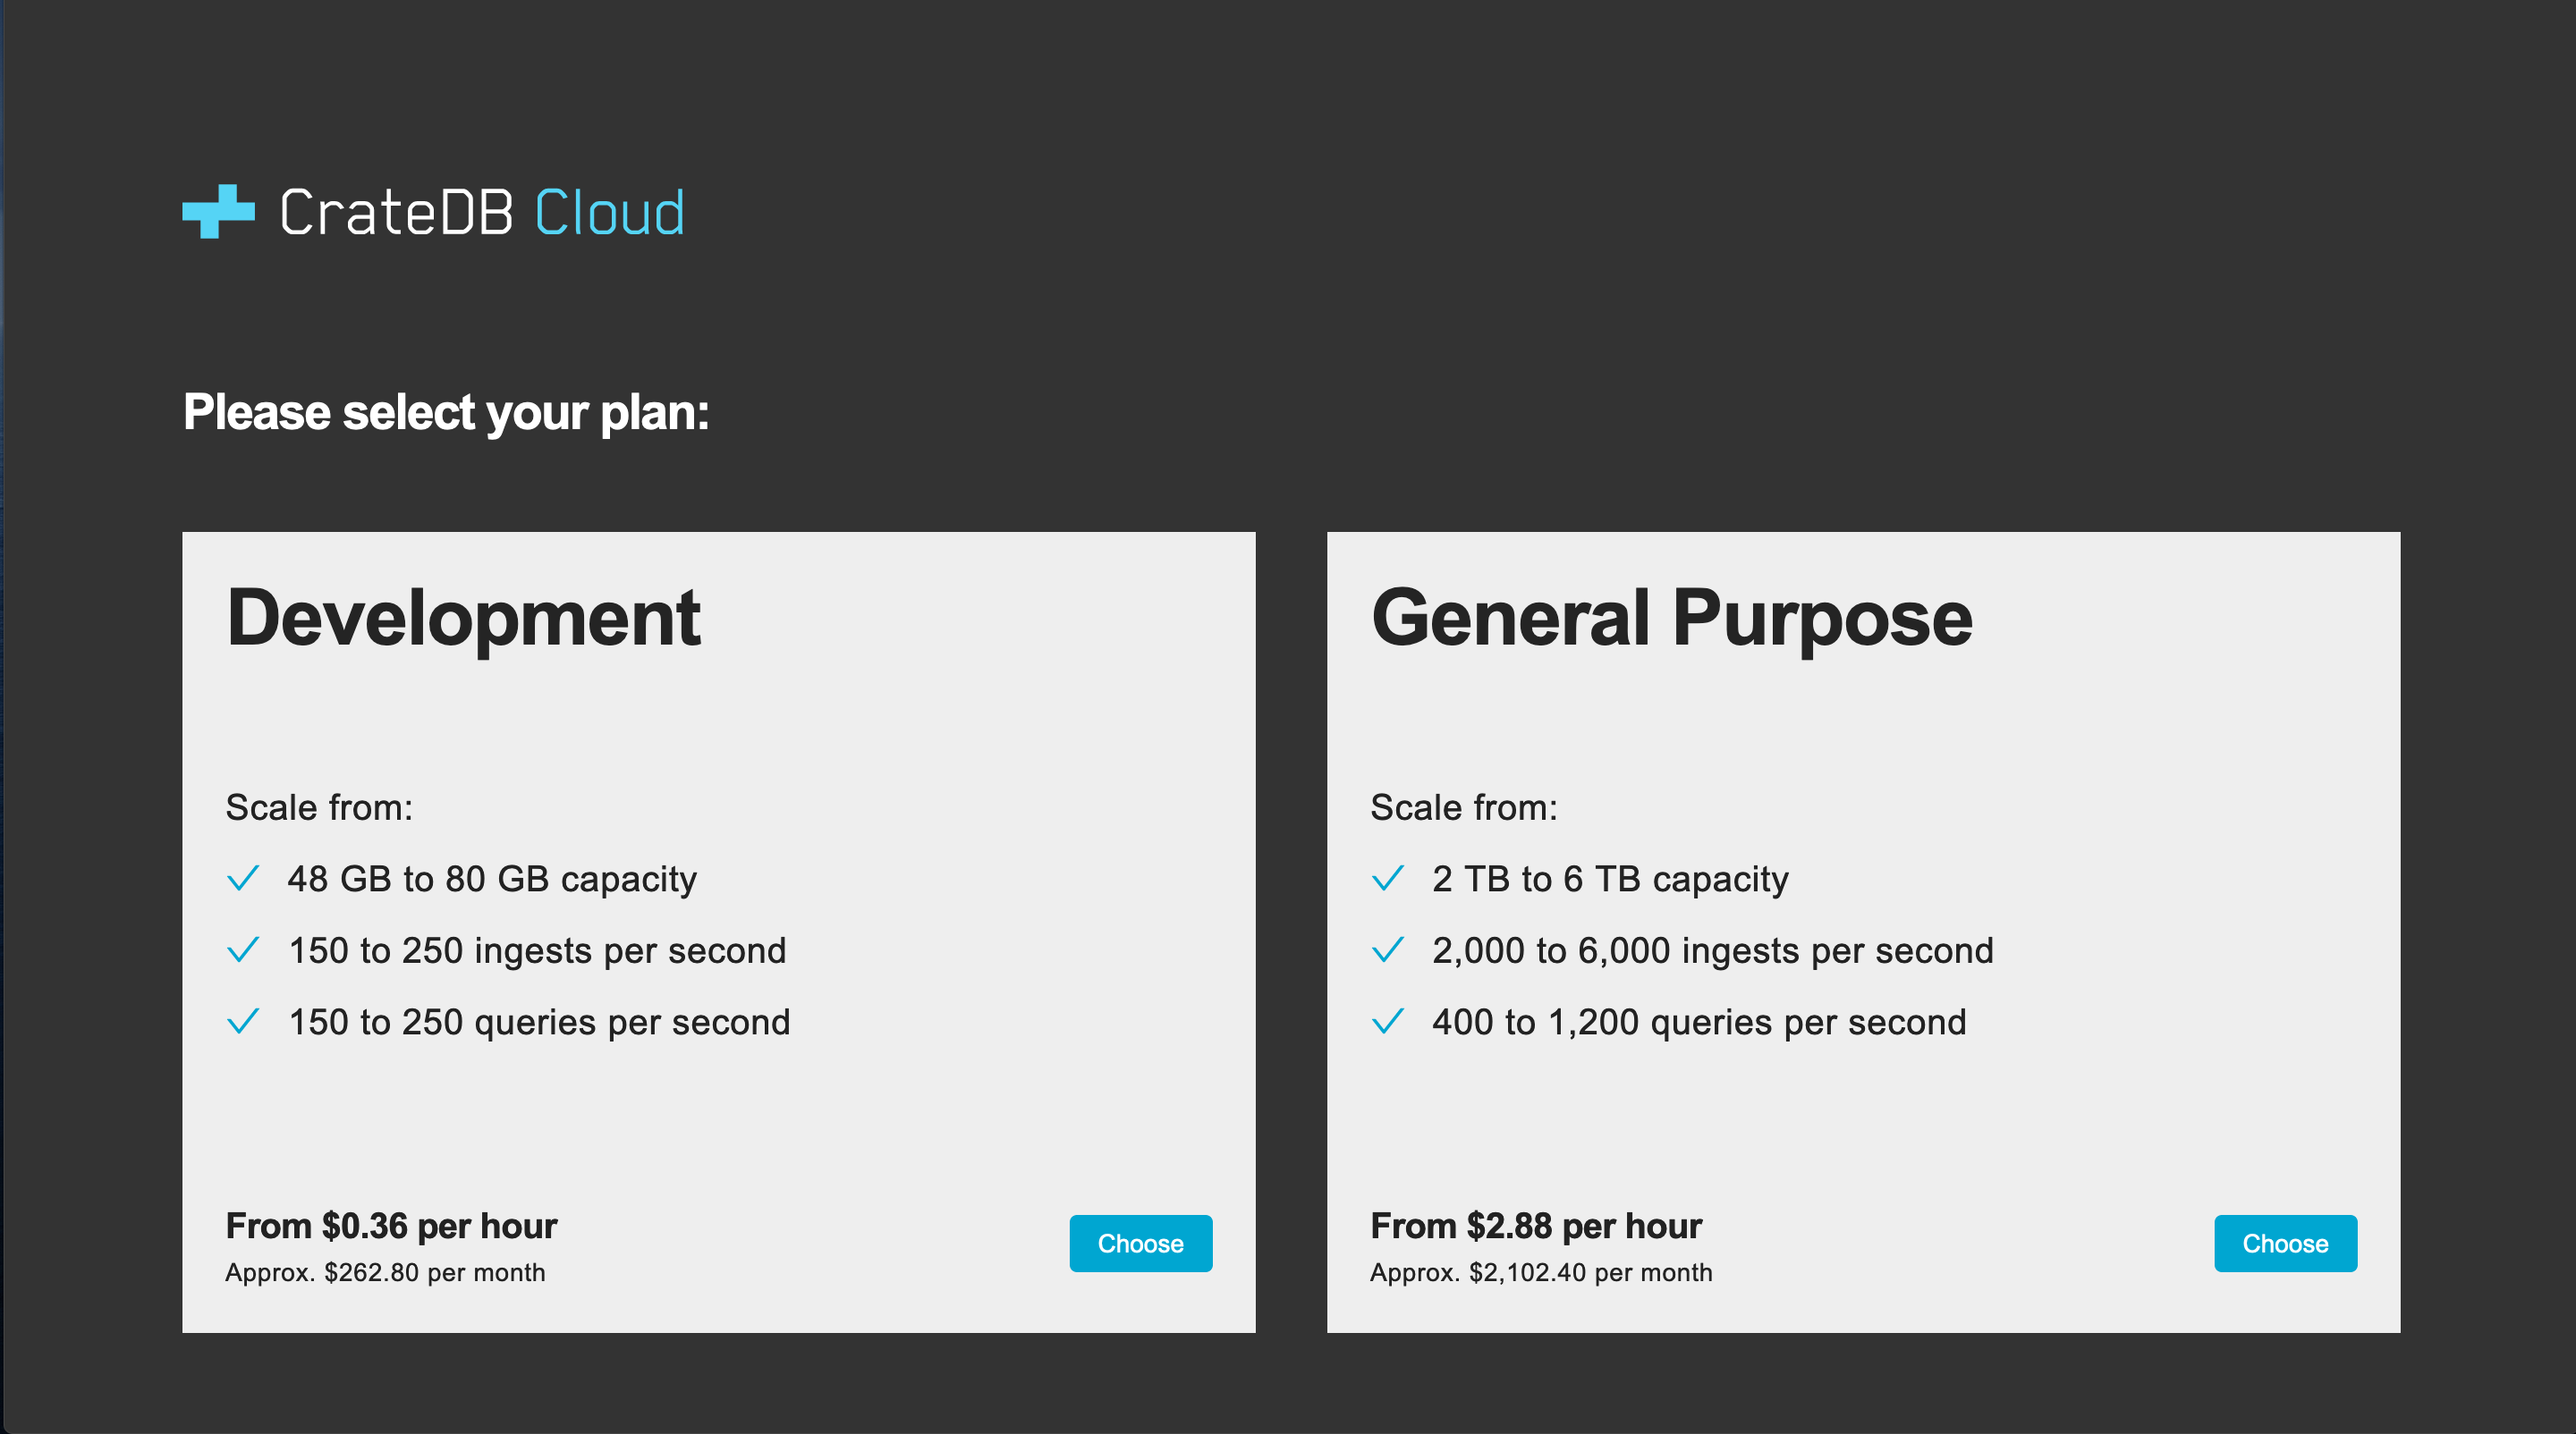
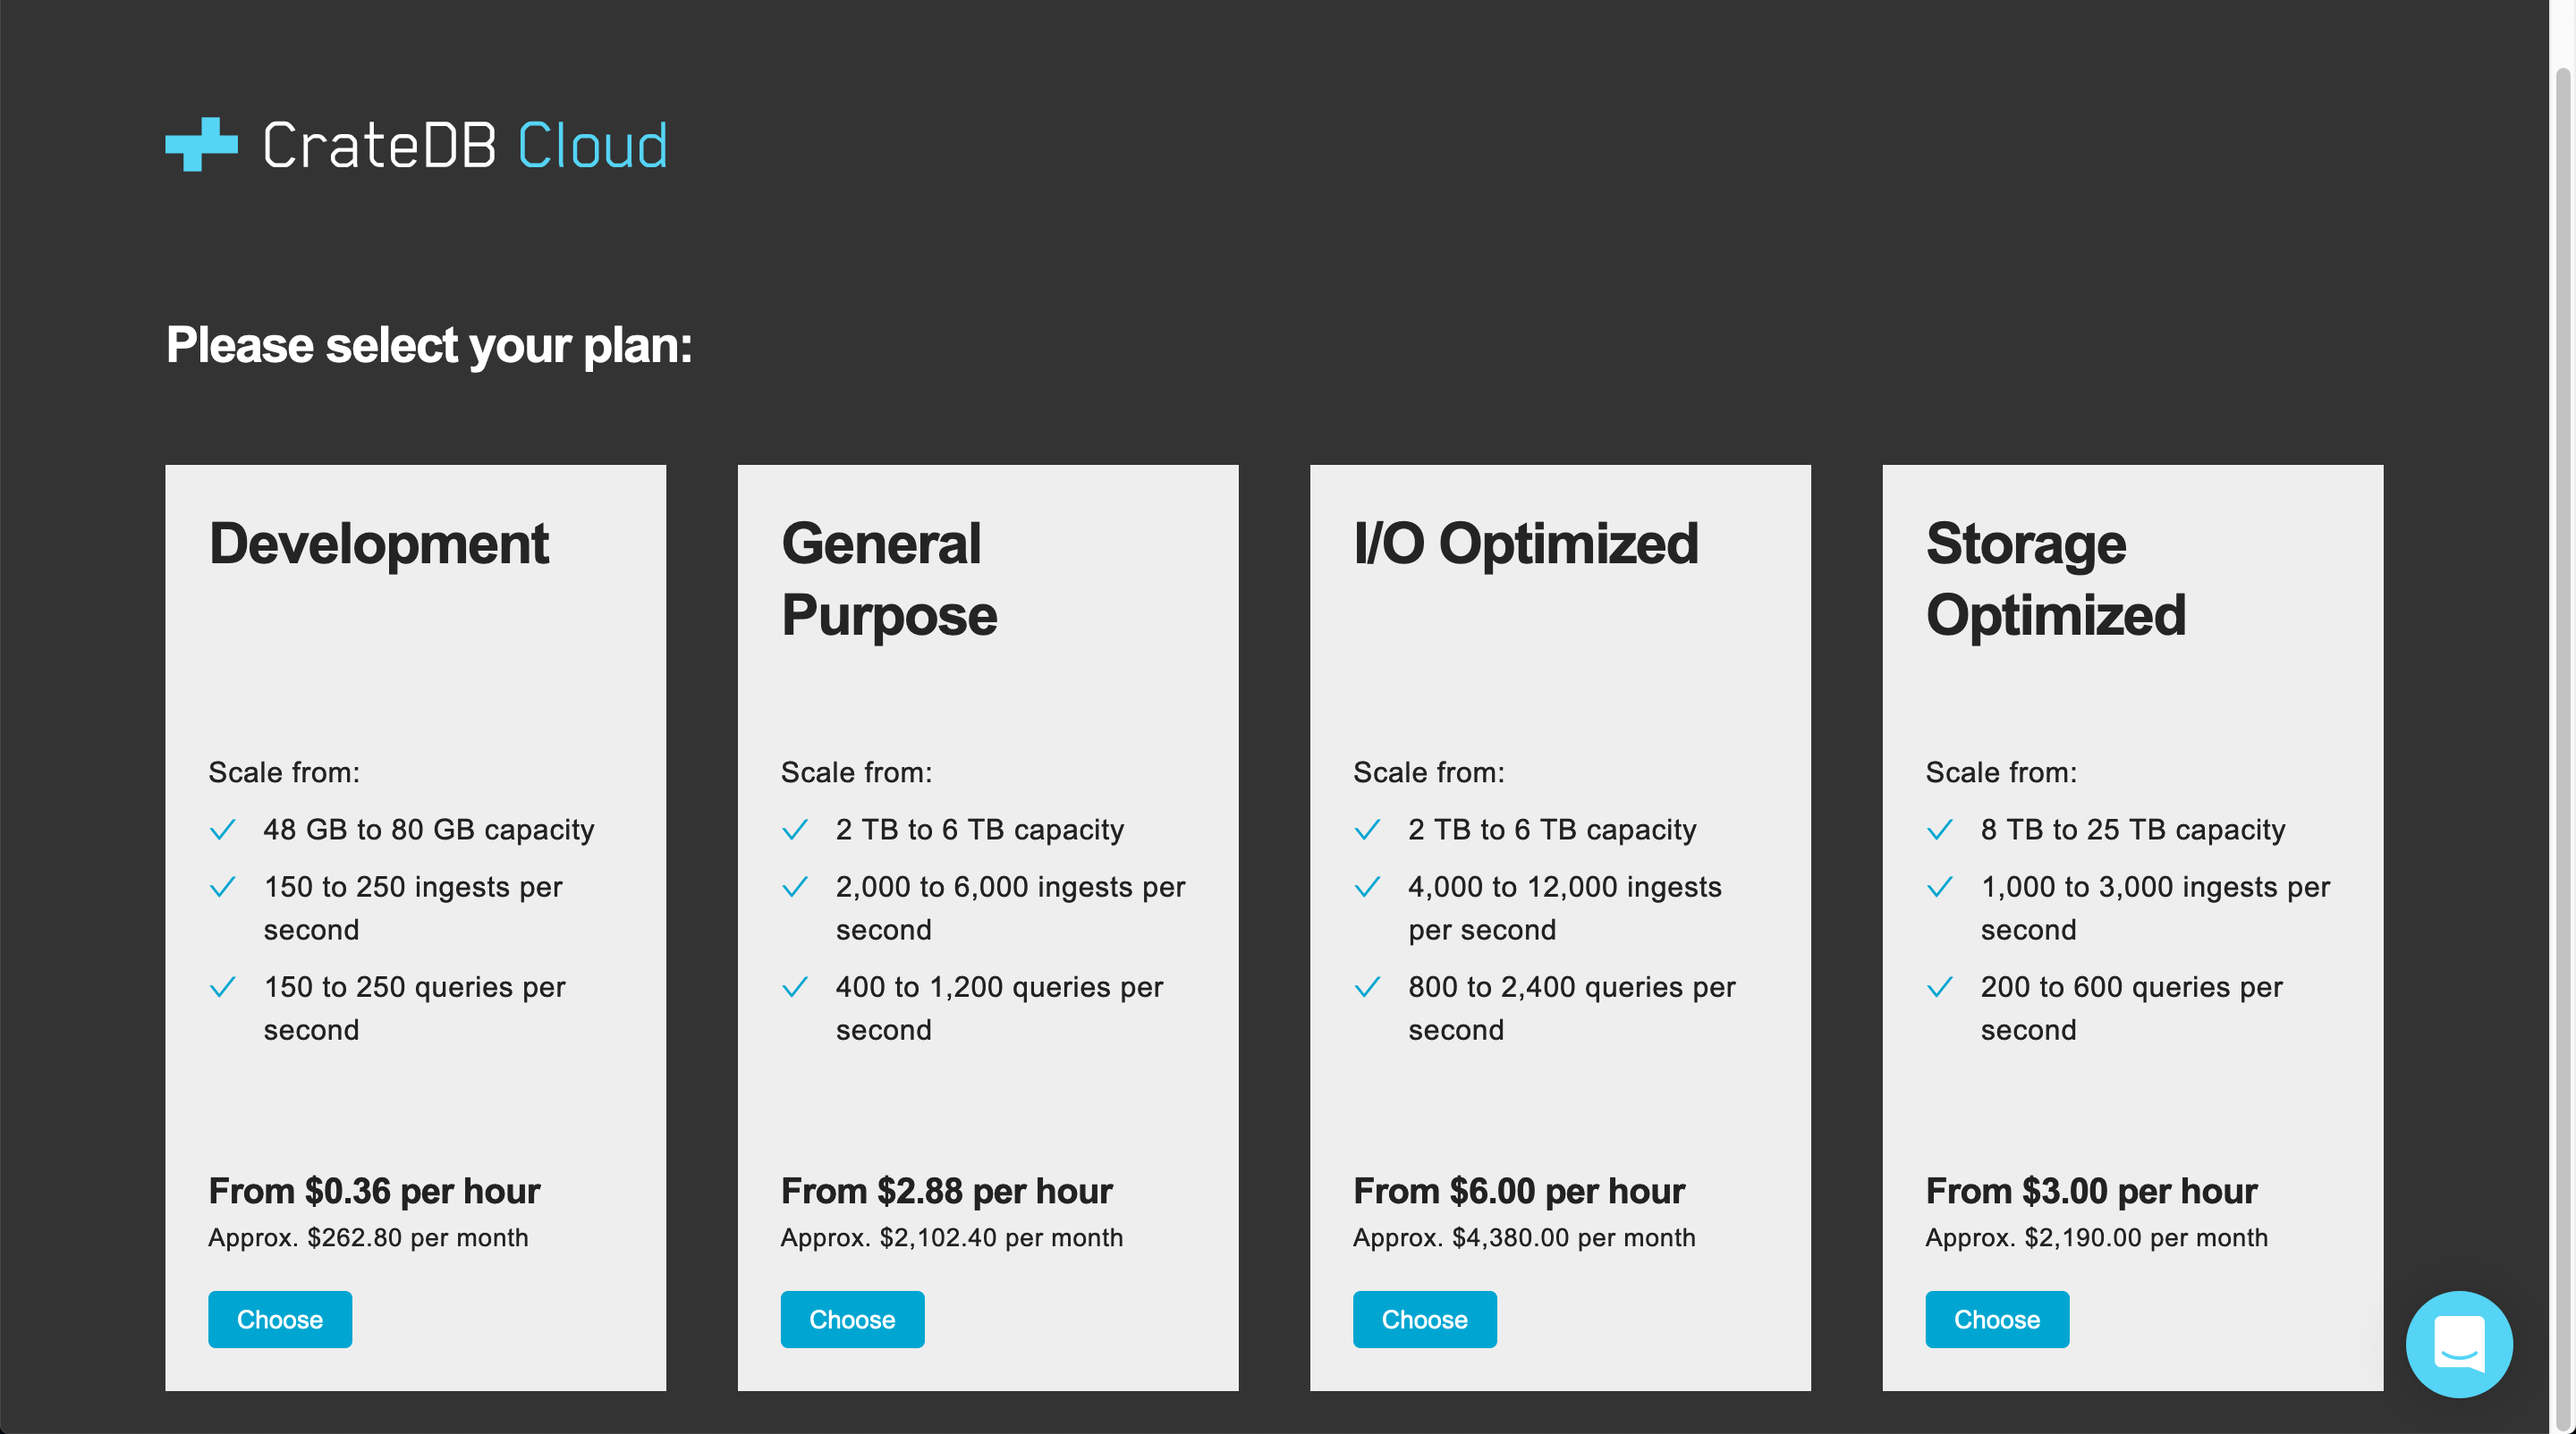
Refresh: Update AWS tutorial process

Changed region(s): [[0.0625, 0.0, 1.0, 1.0], [0.0625, 0.0935, 0.2812, 0.1559]]

diff --git a/docs/cluster-deployment/deploy-to-cluster-aws/configure-aws.rst b/docs/cluster-deployment/deploy-to-cluster-aws/configure-aws.rst
@@ -5,14 +5,32 @@ Configure and deploy your cluster
 =================================
 
 After having subscribed to the AWS Marketplace offer, you can now start to
-deploy your first cluster by going through the CrateDB Cloud Console
-configuration wizard. Here you will find a step-by-step description of the
-process.
+use your first cluster. This involves two steps: the deployment of the cluster
+in the CrateDB Cloud Console, and the configuration of the cluster (including
+choosing the subscription plan) by going through the CrateDB Cloud Console
+wizard. Here you will find a step-by-step description of the process.
 
 .. rubric:: Table of contents
 
 .. contents::
    :local:
+
+
+.. _configure-aws-to-cluster-deploy:
+
+Deploy your cluster
+===================
+
+After having subscribed, you should arrive (possibly involving a subsequent
+login process) at the CrateDB Cloud Console. The Console will display the
+subscriptions tab of the Organization overview page, where you can see any and
+all subscriptions that your organization has.
+
+.. image:: ../../_assets/img/aws-subscription-overview.png
+
+Under the relevant subscription, click the *Deploy cluster* button. This will
+take you to the CrateDB Cloud configuration wizard, starting with the choice
+of subscription plan.
 
 
 .. _configure-aws-to-cluster-plans:
@@ -21,12 +39,14 @@ Choose a plan
 =============
 
 You choose a subscription plan at this stage of configuration. CrateDB Cloud
-currently offers two different subscription plans: *Development* and *General
-Purpose*. The Development plan is intended for trying out the service. The
-General Purpose plan is designed to meet production-ready use cases. In the
-future, the number and nature of the subscription plans may change. To learn
-more about our subscription plans, including the seamless scaling options, see
-the `reference`_ on the subject.
+currently offers four different standard subscription plans: *Development*,
+intended for trying out the service, *General Purpose*, designed to meet
+production-ready use cases, *IO Optimized* for use cases where query speed is
+the main focus, and *Storage Optimized* for cases where large amounts of (hot)
+storage are essential. Finally, there is the `CrateDB Cloud Contract`_,
+offering an annual subscription to our cloud service by paying in advance. To
+learn more about our subscription plans, see the `reference on subscription
+plans`_.
 
 .. image:: ../../_assets/img/aws-config-plans.png
 
@@ -83,7 +103,8 @@ cluster changes its price.
 
 Do not worry, however: clusters can be scaled up or down as needed, for example
 if your use case changes, at any point later on. To understand more about
-subscription plans and scale units, refer to our `reference`_ on the subject.
+subscription plans and scale units, refer to our `reference on subscription
+plans`_.
 
 When you have filled out the required lines and chosen a scale unit, click
 *Next* to proceed.
@@ -119,9 +140,11 @@ To test if your cluster is available, go to *Cluster Overview* in the Console
 and click on the cluster URL. Once the cluster is up and running you should be
 presented with a login form. Enter the database user and password defined in
 step 2 of the wizard. After authentication the CrateDB Admin UI opens and you
-can start using your cluster. For more information, visit `our Help page`_.
+can start using your cluster. For more information on accessing the Admin UI,
+visit `our Admin UI help page`_.
 
 
 .. _CrateDB Cloud  Console: https://crate.io/docs/cloud/reference/en/latest/overview.html
-.. _our Help page: https://help.crate.io/en/articles/1771425-accessing-cratedb-s-admin-ui
-.. _reference: https://crate.io/docs/cloud/reference/en/latest/subscription-plans.html
+.. _CrateDB Cloud Contract: https://aws.amazon.com/marketplace/pp/B08KHK34RK
+.. _our Admin UI help page: https://help.crate.io/en/articles/1771425-accessing-cratedb-s-admin-ui
+.. _reference on subscription plans: https://crate.io/docs/cloud/reference/en/latest/subscription-plans.html

diff --git a/docs/cluster-deployment/deploy-to-cluster-aws/signup-aws.rst b/docs/cluster-deployment/deploy-to-cluster-aws/signup-aws.rst
@@ -7,8 +7,8 @@ Subscribe to CrateDB Cloud via the AWS Marketplace
 Another way to deploy a cluster on CrateDB Cloud is to sign up via AWS
 Marketplace. You will need an AWS Marketplace account to proceed, which for the
 purposes of this tutorial we will assume you have. (If not, you can sign up
-easily `here`_.) By using CrateDB Cloud's service on AWS Marketplace, your
-hourly usage is billed directly by Amazon, not by Crate.io.
+easily on the `Marketplace page`_.) By using CrateDB Cloud's service on AWS
+Marketplace, your hourly usage is billed directly by Amazon, not by Crate.io.
 
 .. rubric:: Table of contents
 
@@ -23,7 +23,7 @@ Using the CrateDB Cloud offer on AWS Marketplace
 
 To subscribe to CrateDB Cloud's offering on AWS Marketplace, find the CrateDB
 Cloud offer page. You can either search "CrateDB Cloud" in the search bar at
-the top of the AWS Marketplace front page, or follow `this link`_ to the offer.
+the top of the AWS Marketplace front page, or go directly to `the AWS offer`_.
 The top of the offer page should look as follows:
 
 .. image:: ../../_assets/img/aws-offer.png
@@ -49,17 +49,38 @@ configuration on the CrateDB Cloud end.
 Click on the *Set Up Your Account* button to proceed.
 
 
+.. _signup-aws-contract:
+
+Using the CrateDB Cloud Contract on AWS Marketplace
+===================================================
+
+Alternatively, you can avail yourself of the possibility of an annual contract
+for our cloud service through the CrateDB Cloud Contract. On AWS Marketplace,
+the contract is a separate product for subscription purposes. You can access it
+by going to the `CrateDB Cloud Contract landing page`_.
+
+.. image:: ../../_assets/img/aws-cloud-contract.png
+
+Simply subscribe to it as you would to the CrateDB Cloud subscription. A screen
+will appear where you can confirm your subscription plan and review the prices
+once more. After confirmation, our Sales team will get in touch with you to
+configure your plan according to your specific needs. If you plan to purchase
+large volumes, please contact `Sales`_ first to negotiate a private offer.
+
+
 .. _signup-aws-to-cluster-next:
 
 Next steps
 ==========
 
 Proceeding with the AWS Marketplace subscription will take you to the CrateDB
-Cloud Console wizard. The next steps are to choose a subscription plan, to
-configure the cluster, and to finish the CrateDB Cloud Console wizard, all of
-which is described in the :ref:`next part <configure-aws-to-cluster>` of this
-tutorial. This will allow deployment of your cluster.
+Cloud Console. The next steps are to deploy a cluster, select the subscription
+plan, and to finish the CrateDB Cloud Console wizard, all of which is described
+in the :ref:`next part <configure-aws-to-cluster>` of this tutorial. This will
+allow the full functioning of your cluster.
 
 
-.. _here: https://portal.aws.amazon.com/billing/signup
-.. _this link: https://aws.amazon.com/marketplace/pp/B089M4B1ND
+.. _CrateDB Cloud Contract landing page: https://aws.amazon.com/marketplace/pp/B08KHK34RK
+.. _Marketplace page: https://portal.aws.amazon.com/billing/signup
+.. _Sales: sales@crate.io
+.. _the AWS offer: https://aws.amazon.com/marketplace/pp/B089M4B1ND
